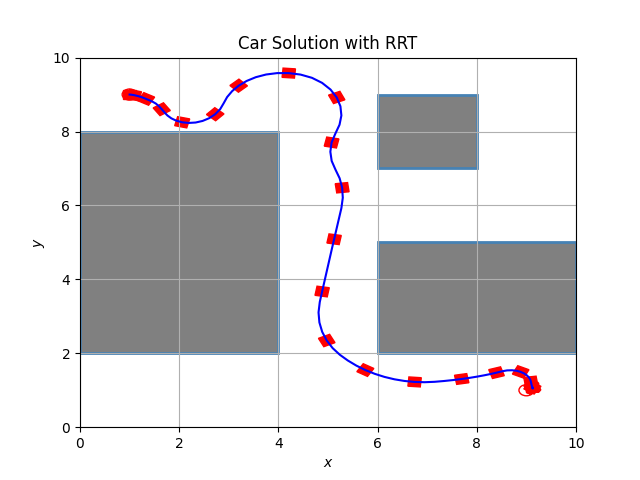
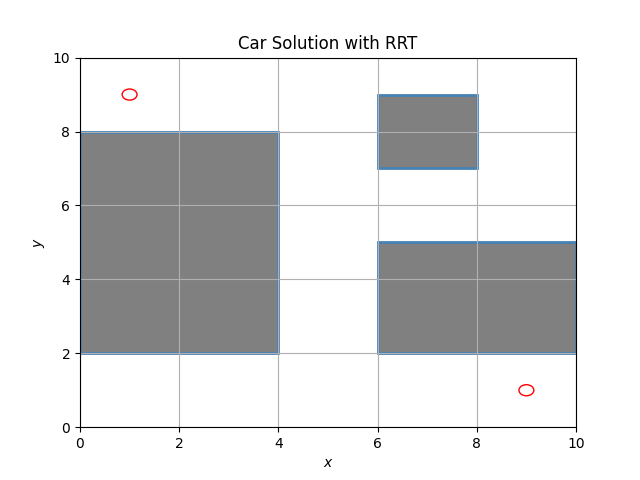
modified the RG-RRT files

diff --git a/projects/project4/src/RG-RRT.cpp b/projects/project4/src/RG-RRT.cpp
@@ -7,7 +7,9 @@
 // Our .h file
 #include "RG-RRT.h"
 
+// Additional OMPL and C++ libraries for implementation
 #include <ompl/tools/config/SelfConfig.h>
+#include "ompl/base/spaces/SE2StateSpace.h"
 #include <ompl/base/goals/GoalSampleableRegion.h>
 #include <ompl/control/spaces/RealVectorControlSpace.h>
 #include <limits>
@@ -19,7 +21,8 @@ ompl::control::RGRRT::RGRRT(const SpaceInformationPtr &si) : ompl::base::Planner
      siC_ = si.get();
   
      Planner::declareParam<double>("goal_bias", this, &RGRRT::setGoalBias, &RGRRT::getGoalBias, "0.:.05:1.");
-     Planner::declareParam<bool>("intermediate_states", this, &RGRRT::setIntermediateStates, &RGRRT::getIntermediateStates);
+     Planner::declareParam<bool>("intermediate_states", this, &RGRRT::setIntermediateStates, &RGRRT::getIntermediateStates, "0,1");
+
 }
 
 // Destructor 
@@ -68,23 +71,24 @@ void ompl::control::RGRRT::freeMemory()
 }
 
 /*
-Generate Reachable Set Function
+Generate Reachable Set (GRS) Function
 
 This function performs the generation of the reachable set for the planner. This is completely new and separate from 
 the rest of the code that is primarily just taken from the RRT file in the OMPL library. This function is called in 
 the solve function written below.
 */
 
-void ompl::control::RGRRT::GRS(Motion* motion){
+void ompl::control::RGRRT::GRS(Motion* const motion){
 
     // Create vector of doubles (called LO and HI) that include the bounds, and find the range of the bounds
-    const std::vector<double>& LO = siC_->getControlSpace()->as<RealVectorControlSpace>()->getBounds().low;
-    const std::vector<double>& HI = siC_->getControlSpace()->as<RealVectorControlSpace>()->getBounds().high;
+    base::RealVectorBounds bounds = siC_->getControlSpace()->as<RealVectorControlSpace>()->getBounds();
+    double LO = bounds.low[0];
+    double HI = bounds.high[0];
 
-    double range = HI[0] - LO[0];
+    double range = HI - LO;
 
     // Propagate the input states for a range between -10 and 10 over a for loop. 
-    for (double propagation = LO[0]; propagation <= HI[0]; propagation += range/10.0)
+    for (double propagation = LO; propagation <= HI; propagation += range/10.0)
     {
         Motion *newmotion = new Motion(siC_);
         siC_->copyControl(newmotion->control, motion->control);
@@ -93,13 +97,53 @@ void ompl::control::RGRRT::GRS(Motion* motion){
         double *options = motion->control->as<ompl::control::RealVectorControlSpace::ControlType>()->values;
 
         options[0] = propagation;
+        options[1] = 0.0;
 
-        // Apply the control to the motion. This uses the propagateWhileValid function from the SpaceInformation file in OMPL.
-        motion->steps = siC_->propagateWhileValid(motion->state, newmotion->control, 1, newmotion->state);
+        ompl::base::State *newState = siC_->allocState();
+
+        // Perform the propagation
+        siC_->propagateWhileValid(motion->state, newmotion->control, 1, newState);
 
         // Add the propagation to the reachable motions
         motion->ReachS.push_back(newmotion);
     }
+}
+
+/* Select Reachable Motion Function
+
+This function is also new and separate from the rest of the code that is primarily just taken from the RRT file in the OMPL library.
+This function selects a reachable motion from the reachable set generated in the GRS function. This function is called in the solve.
+
+*/
+
+int ompl::control::RGRRT::selectReachableMotion(const Motion* nearmotion, const Motion* randmotion)
+{
+
+    const base::State *nearState = nearmotion->state;
+    const base::State *randState = randmotion->state;
+
+    if (!nearState || !randState) {
+        // Handle the case where states are uninitialized
+        return -1;
+    }
+
+    const double nearDistance = si_->distance(nearState, randState);
+    double minimumDistance = nearDistance;
+
+    const auto& reach = nearmotion->ReachS;
+    int id = -1;
+
+    for(int i = 0; i < reach.size(); ++i)
+    {
+        double newDistance = si_->distance(reach[i]->state, randmotion->state);
+
+        if(newDistance < minimumDistance)
+        {
+            minimumDistance = newDistance;
+            id = i;
+        }
+    }
+    return id;
 }
 
 // Main solve function
@@ -144,23 +188,44 @@ ompl::base::PlannerStatus ompl::control::RGRRT::solve(const base::PlannerTermina
     Control *rctrl = rmotion->control;
     base::State *xstate = si_->allocState();
   
-    while (ptc == false)
+    while(ptc == false)
     {
+
         // sample random state (with goal biasing)
         if (goal_s && rng_.uniform01() < goalBias_ && goal_s->canSample())
-            goal_s->sampleGoal(rstate);
+             goal_s->sampleGoal(rstate);
         else
             sampler_->sampleUniform(rstate);
-  
+        
         // find closest state in the tree
         Motion *nmotion = nn_->nearest(rmotion);
-  
+
+
+        // if rmotion (rand) is too far from nmotion (near), select a motion from nmotion's reachable set that brings us closer to rmotion
+        while(selectReachableMotion(nmotion, rmotion))
+        {
+            int id = selectReachableMotion(nmotion, rmotion);
+
+            // get the motion determined by its id
+            Motion* newmotion = nmotion->ReachS[id];
+
+            // generate a new motion
+            auto *motion = new Motion(siC_);
+            si_->copyState(motion->state, newmotion->state);
+            siC_->copyControl(motion->control, newmotion->control);
+            motion->parent = nmotion;
+            motion->steps = 1;
+
+            nn_->add(motion);
+
+            nmotion = motion;
+
+        }
         // sample a random control that attempts to go towards the random state, and also sample a control duration 
         unsigned int cd = controlSampler_->sampleTo(rctrl, nmotion->control, nmotion->state, rmotion->state);
   
         if (addIntermediateStates_)
         {
-            // this code is contributed by Jennifer Barry
             std::vector<base::State *> pstates;
             cd = siC_->propagateWhileValid(nmotion->state, rctrl, cd, pstates, true);
   

diff --git a/projects/project4/src/RG-RRT.h b/projects/project4/src/RG-RRT.h
@@ -28,7 +28,7 @@ namespace ompl
 {
     namespace control
     {
-        class RGRRT : public ompl::base::Planner
+        class RGRRT : public base::Planner
         {
 
         public:
@@ -37,7 +37,7 @@ namespace ompl
             ~RGRRT() override;
 
             // Define the main "solve" function with the termination condition being the time spent.
-            ompl::base::PlannerStatus solve(const ompl::base::PlannerTerminationCondition &ptc) override;
+            base::PlannerStatus solve(const ompl::base::PlannerTerminationCondition &ptc) override;
 
             // Define the clear function
             void clear() override;
@@ -73,7 +73,7 @@ namespace ompl
             }
 
             // Grab planner data
-            void getPlannerData(ompl::base::PlannerData &data) const override;
+            void getPlannerData(base::PlannerData &data) const override;
 
             // Set nearest neighbors datastructure
             template <template <typename T> class NN>
@@ -112,7 +112,7 @@ namespace ompl
                     ~Motion() = default;
 
                     // Create the state contained in the motion
-                    ompl::base::State* state{nullptr};
+                    base::State *state{nullptr};
 
                     // Create the control contained in the motion
                     Control* control{nullptr};
@@ -121,10 +121,10 @@ namespace ompl
                     unsigned int steps{0};
 
                     // Create the parent motion in the exploration tree
-                    Motion* parent{nullptr};
+                    Motion *parent{nullptr};
 
                     // Create the reachable set (this is what separates RGRRT from the "normal" RRT!!)
-                    std::vector<Motion*> ReachS;
+                    std::vector<Motion *> ReachS;
             };
 
             // Free the planner's memory after
@@ -132,13 +132,13 @@ namespace ompl
 
             // Compute distances between motions 
 
-            double distanceFunction(const Motion* a, const Motion* b) const
+            double distanceFunction(const Motion *a, const Motion *b) const
             {
                 return si_->distance(a->state,b->state);
             }
 
             // State sampler
-            ompl::base::StateSamplerPtr sampler_;
+            base::StateSamplerPtr sampler_;
 
             // Control sampler
             DirectedControlSamplerPtr controlSampler_;
@@ -146,7 +146,7 @@ namespace ompl
             const SpaceInformation* siC_;
 
             // A nearest-neighbors datastructure containing the tree of motions 
-            std::shared_ptr<NearestNeighbors<Motion*>> nn_;
+            std::shared_ptr<NearestNeighbors<Motion *>> nn_;
 
             // set the goal bias
             double goalBias_{0.05};
@@ -161,10 +161,10 @@ namespace ompl
             RNG rng_;
 
             // Generate the reachable set (NEW)
-            void GRS(Motion* motion);
+            void GRS(Motion* const motion);
 
             // Select a reachable motion (NEW)
-            int selectReachableMotion(const Motion* near, const Motion* rand);
+            int selectReachableMotion(const Motion* nearmotion, const Motion* randmotion);
         };
          
     }  // namespace control 
